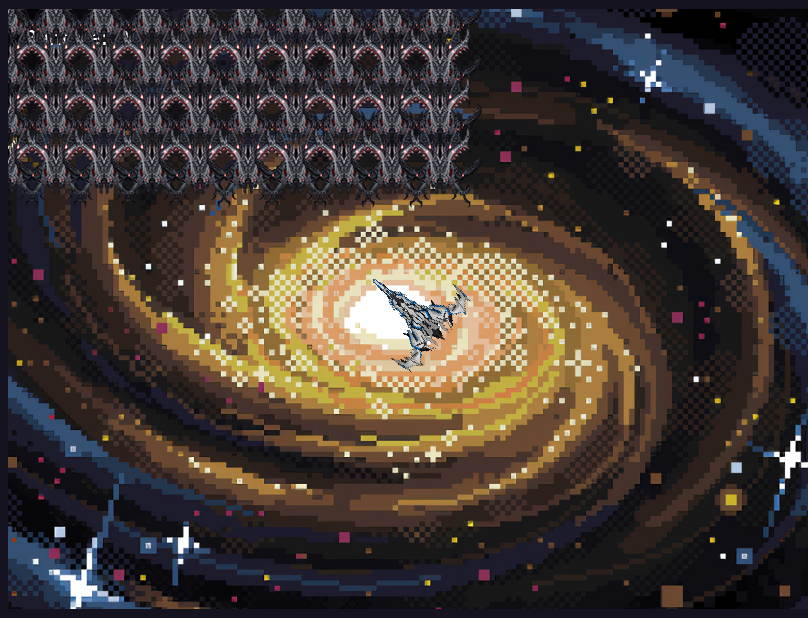
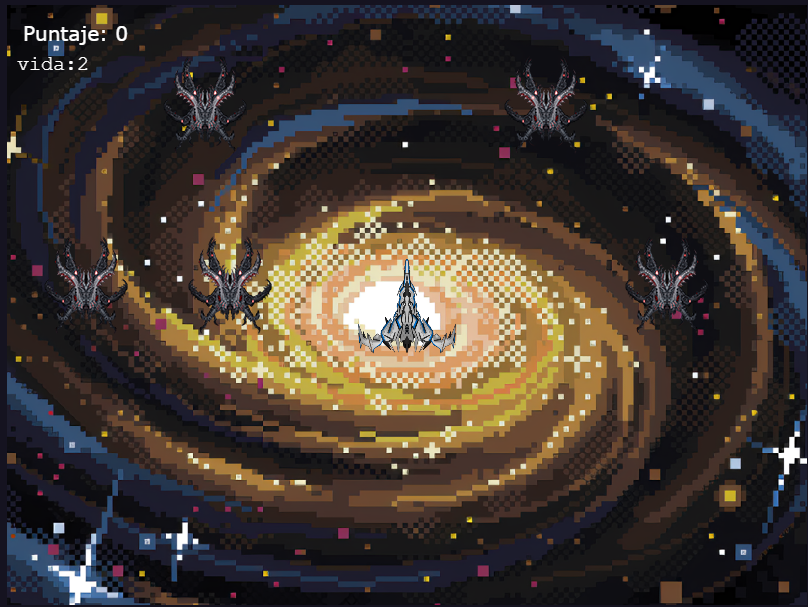
Agregado el segundo nivel, el nivel 1 y 2 tienen un error al ganar y por ahora no agregue el enemigo 1 en el segundo nivel, aunque tengo el codigo para agregarlos. Martin Amante

diff --git a/src/components/SpaceShooter/Nivel2.js b/src/components/SpaceShooter/Nivel2.js
@@ -12,13 +12,13 @@ var texto;
 const vidaShip = 3;
 const minEnemigos = 1;
 const maxEnemigos = 2;
-const velocidadCaida = 4;
+const velocidadMovimiento = 5;
 const tiempoAparicion = 600;
 
-export class Game extends Phaser.Scene {
+export class Nivel2 extends Phaser.Scene {
 
     constructor() {
-        super({ key: 'Game' });
+        super({ key: 'nivel2' });
     }
 
     init() {
@@ -30,7 +30,7 @@ export class Game extends Phaser.Scene {
         this.load.image('player', 'assets/spaceInvader/sprites/Player.png');
         this.load.image('bullet1', 'assets/spaceInvader/sprites/Bala.png');
         this.load.audio('sfx', 'assets/spaceInvader/sonidos/musica2.mp3');
-        this.load.image('enemy', 'assets/spaceInvader/sprites/Enemigo.png');
+        this.load.image('enemy2', 'assets/spaceInvader/sprites/Enemigo2.png')
     }
 
 
@@ -41,7 +41,7 @@ export class Game extends Phaser.Scene {
         // //Aqui haremos que la musica se reproduzca
         /* this.music.play({
              loop: true
-         }); */ 
+         }); */
         //Aqui crearemos nuestra tabla de puntaje
         this.Puntaje.create();
 
@@ -130,10 +130,9 @@ export class Game extends Phaser.Scene {
         });
 
         enemigos = this.physics.add.group({
-            defaultKey: 'enemy',
+            defaultKey: 'enemy2',
             maxSize: 50
         });
-
         this.time.addEvent({
             delay: tiempoAparicion,
             loop: true,
@@ -146,16 +145,16 @@ export class Game extends Phaser.Scene {
 
         this.physics.add.overlap(bullets, enemigos, this.colicionBulletsEnemigos, null, this)
 
+
     }
 
     update(time, delta) {
 
-        Phaser.Actions.IncY(enemigos.getChildren(), velocidadCaida);
+        Phaser.Actions.IncX(enemigos.getChildren(), velocidadMovimiento);
         enemigos.children.iterate(function (enemigo) {
-            if (enemigo.y > 600) {
+            if (enemigo.x > 800) {
                 enemigos.killAndHide(enemigo);
-            }
-        })
+            }});
 
         {
             //Basicamente lo que vemos aqui es la creacion de las balas y esto comprobara si el clic fue presionado, en caso de ser correcto se creara una bala.
@@ -183,15 +182,14 @@ export class Game extends Phaser.Scene {
 
             if (enemigo) {
                 enemigo.setActive(true).setVisible(true);
-                enemigo.y = -100;
-                enemigo.x = Phaser.Math.Between(0, 800);
+                enemigo.y = Phaser.Math.Between(0, 600);
+                enemigo.x = -100;
                 this.physics.add.overlap(enemigo, enemigos, (enemigoEnColicion) => {
-                    enemigoEnColicion.x = Phaser.Math.Between(0, 800);
+                    enemigoEnColicion.y = Phaser.Math.Between(0, 600);
                 });
             }
         }
-            
-        }
+     }
 
     colicionShipEnemigos(ship, enemigo) {
         if (enemigo.active) {
@@ -211,16 +209,15 @@ export class Game extends Phaser.Scene {
         Bullet.setVisible(false);
         enemigo.setActive(false);
         enemigo.setVisible(false);
-        this.Puntaje.incrementoPuntos(10);
-   
- 
-      
         
 
+        this.Puntaje.incrementoPuntos(10);
     }
+
     actualizarTexto() {
         texto.setText('vida:' + ship.vida);
     }
+
 
 
     //En caso de querer usar el texto se debe poner asi:
@@ -239,4 +236,4 @@ export class Game extends Phaser.Scene {
 
 }
 
-export default Game;
+export default Nivel2;

diff --git a/src/components/SpaceShooter/MenuNiveles.js b/src/components/SpaceShooter/MenuNiveles.js
@@ -9,6 +9,7 @@ export class MenuNiveles extends Phaser.Scene {
   preload() {
     this.load.image('fondo', 'assets/spaceInvader/background/background.png');
     this.load.image('nivel_1', 'assets/spaceInvader/background/Nivel1.png');
+    this.load.image('nivel_2', 'assets/spaceInvader/background/Nivel1.png');
   }
 
   create() {
@@ -17,9 +18,15 @@ export class MenuNiveles extends Phaser.Scene {
     var nivel_1 = this.add.sprite(400, 140, "nivel_1").setInteractive();
     nivel_1.setScale(0.3, 0.3);
 
+    var nivel_2 = this.add.sprite(400, 400, "nivel_2").setInteractive();
+    nivel_2.setScale(0.3, 0.3);
 
     nivel_1.on('pointerdown', function () {
       cargarEscena('Game')
+    })
+
+    nivel_2.on('pointerdown', function () {
+      cargarEscena('nivel2')
     })
 
 

diff --git a/src/components/SpaceShooter/SpaceShooter.jsx b/src/components/SpaceShooter/SpaceShooter.jsx
@@ -4,6 +4,7 @@ import Game from "./game";
 import { GameOver } from "./gameOver";
 import { Menu } from "./Menu";
 import { MenuNiveles } from "./MenuNiveles";
+import Nivel2 from "./Nivel2";
 import { Win } from "./Win";
 
 //TODO Cambiar Nombre
@@ -21,11 +22,11 @@ function SpaceShooter() {
         default: 'arcade',
         arcade: {
             gravity: { y: 0 },
-            debug: true
+            debug: false
         }
     },
 
-      scene:[Menu, MenuNiveles, Game, GameOver, Win],
+      scene:[Menu, MenuNiveles, Game, GameOver, Win, Nivel2 ],
       pixelArt: true,
       audio: {
         disableWebAudio: true
